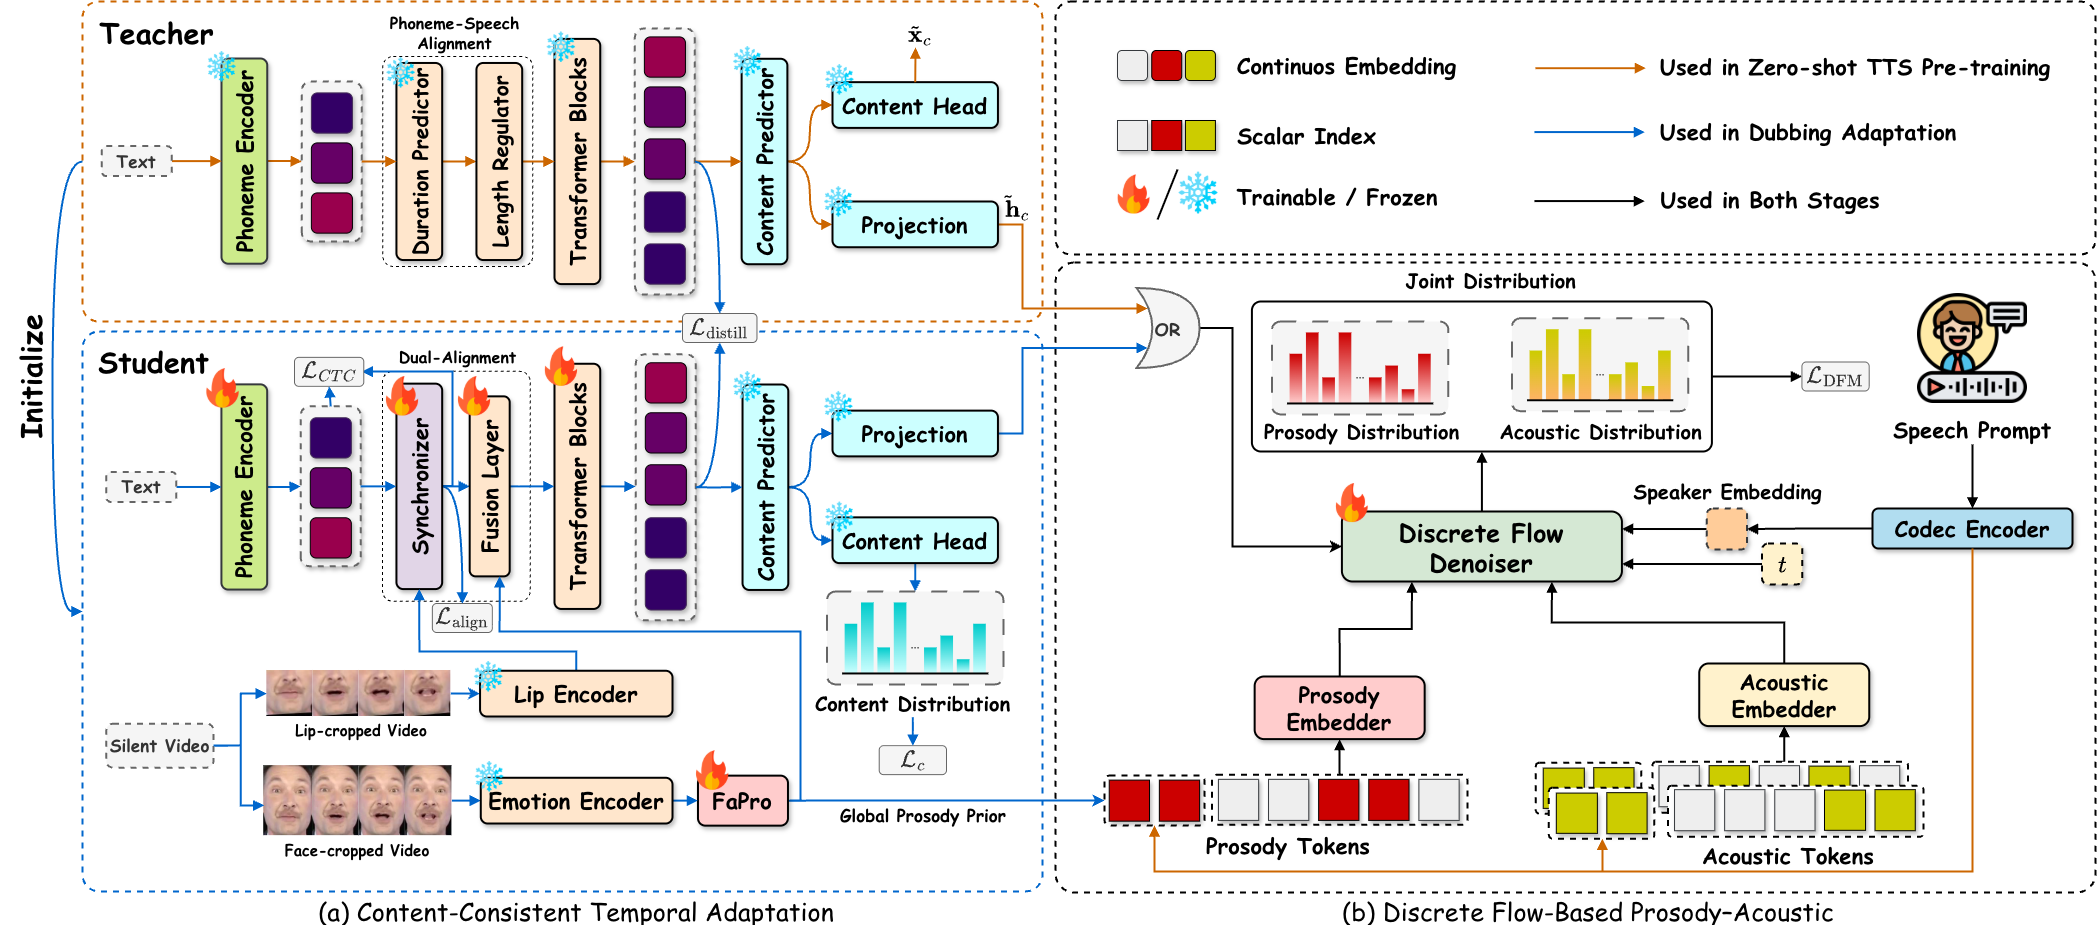
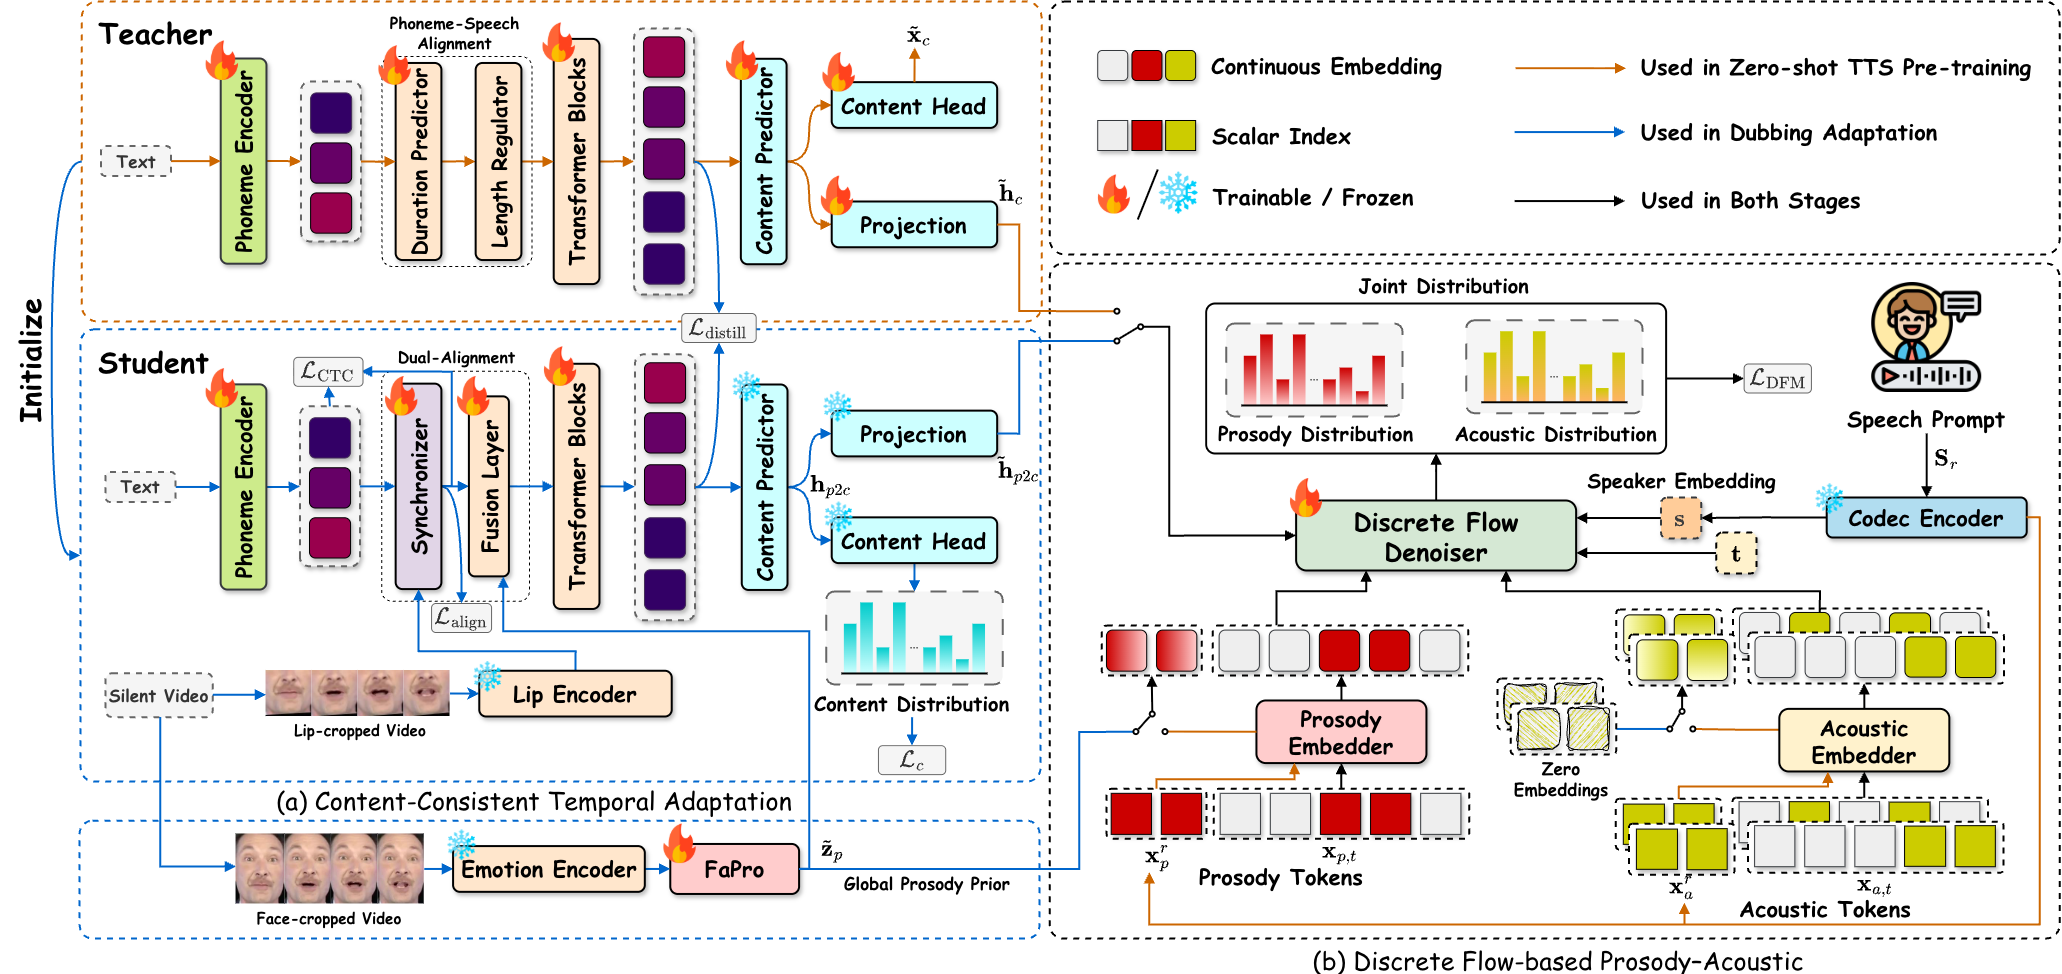
update figure and abstract

diff --git a/projects/diflowdubber/index.html b/projects/diflowdubber/index.html
@@ -663,7 +663,7 @@ td.gif {
             </h2>
                 
         </div>
-        <div><center><h5>&mdash;&mdash;&mdash; <b>CVPR 2026 Findings</b> &mdash;&mdash;&mdash;
+        <div><center><h5>🌟 <b>CVPR 2026 Findings</b> 🌟
         </h5></center></div>
         
         <div class="container" style="max-width: 850px;font-size: 18px;text-align: center;">
@@ -711,9 +711,9 @@ td.gif {
     <div class="container" style="max-width: 768px; text-align:center;">
         <div class="row" style="max-width: 768px;">
             <div class="col-md-12">
-                <h2>📜 Abstract</h2>
+                <h2>💡 Abstract</h2>
                 <p style="text-align: justify;">
-                    Video dubbing has broad applications in filmmaking, multimedia creation, and assistive speech technology. Existing approaches either train directly on limited dubbing datasets or adopt a two-stage pipeline that adapts pre-trained text-to-speech (TTS) models, which often struggle to produce expressive prosody, rich acoustic characteristics, and precise synchronization. To address these issues, we propose DiFlowDubber with a novel two-stage training framework that effectively transfers knowledge from a pre-trained TTS model to video-driven dubbing, with a discrete flow matching generative backbone. Specifically, we design a FaPro module that captures global prosody and stylistic cues from facial expressions and leverages this information to guide the modeling of subsequent speech attributes. To ensure precise speech-lip synchronization, we introduce a Synchronizer module that bridges the modality gap among text, video, and speech, thereby improving cross-modal alignment and generating speech that is temporally synchronized with lip movements. Experiments on two primary benchmark datasets demonstrate that DiFlowDubber outperforms previous methods across multiple metrics.
+                    Video dubbing requires content accuracy, expressive prosody, high-quality acoustics, and precise lip synchronization, yet existing approaches struggle on all four fronts. To address these issues, we propose <strong>DiFlowDubber</strong>, the first video dubbing framework built upon a discrete flow matching backbone with a novel two-stage training strategy. In the first stage, a zero-shot text-to-speech (TTS) system is pre-trained on large-scale corpora, where a deterministic architecture captures linguistic structures, and the Discrete Flow-based Prosody-Acoustic (DFPA) module models expressive prosody and realistic acoustic characteristics. In the second stage, we propose the Content-Consistent Temporal Adaptation (CCTA) to transfer TTS knowledge to the dubbing domain: its Synchronizer enforces cross-modal alignment for lip-synchronized speech. Complementarily, the Face-to-Prosody Mapper (FaPro) conditions prosody on facial expressions, whose outputs are then fused with those of the Synchronizer to construct rich, fine-grained multimodal embeddings that capture prosody-content correlations, guiding the DFPA to generate expressive prosody and acoustic tokens for content-consistent speech. Experiments on two benchmark datasets demonstrate that DiFlowDubber outperforms prior methods across multiple evaluation metrics.
                 </p>
 
             </div>
@@ -736,7 +736,7 @@ td.gif {
             <div class="col-md-6" style="padding: 10px;">
                 <img src="./images/diflowdubber.png" alt="Overall framework of DiFlowDubber" class="figure-hover" style="width: 100%;">
                 <p style="text-align: justify; margin-top: 10px; font-size: 0.9em; color: #555;">
-                    <strong>Figure 2:</strong> Pipeline of the proposed DiFlowDubber. The first stage performs zero-shot TTS pre-training, where a simple deterministic content modeling architecture efficiently captures linguistic structure (orange dashed box). For prosody and acoustic attributes, we adopt the (b) <em>Discrete Flow-Based Prosody-Acoustic (DFPA)</em> module to model expressive prosodic variations and realistic acoustic diversity from the corpus. In the second stage, the model is adapted to V2C task. The (a) <em>Content-Consistent Temporal Adaptation (CCTA)</em> module transfers consistent content knowledge from the TTS domain and generates temporally aligned content representations, while the <em>FaPro</em> module extracts a global prosody prior from facial expression cues. The DFPA module then models the joint distribution of prosody and acoustic tokens conditioned on the prosody prior and latent content representations.
+                    <strong>Figure 2:</strong> Detailed of DiFlowDubber Pipeline. Our framework is a two-stage pipeline. The first stage performs zero-shot TTS pre-training, where a simple deterministic content modeling architecture efficiently captures linguistic structures (orange dashed box). For prosody and acoustic attributes, we adopt <strong>(b)</strong> <em>Discrete Flow-based Prosody-Acoustic</em> (DFPA) module to model expressive prosodic variations and realistic acoustic diversity from the corpus. In the second stage, the model is adapted to the video dubbing task, where <strong>(a)</strong> <em>Content-Consistent Temporal Adaptation</em> module transfers consistent content knowledge from the TTS domain and generates temporally aligned content representations. Meanwhile, FaPro extracts a global prosody prior from facial expression cues. The DFPA module then models the joint distribution of prosody and acoustic tokens conditioned on the global prosody prior, latent content representations, and speaker embedding.
                 </p>
             </div>
         </div>
